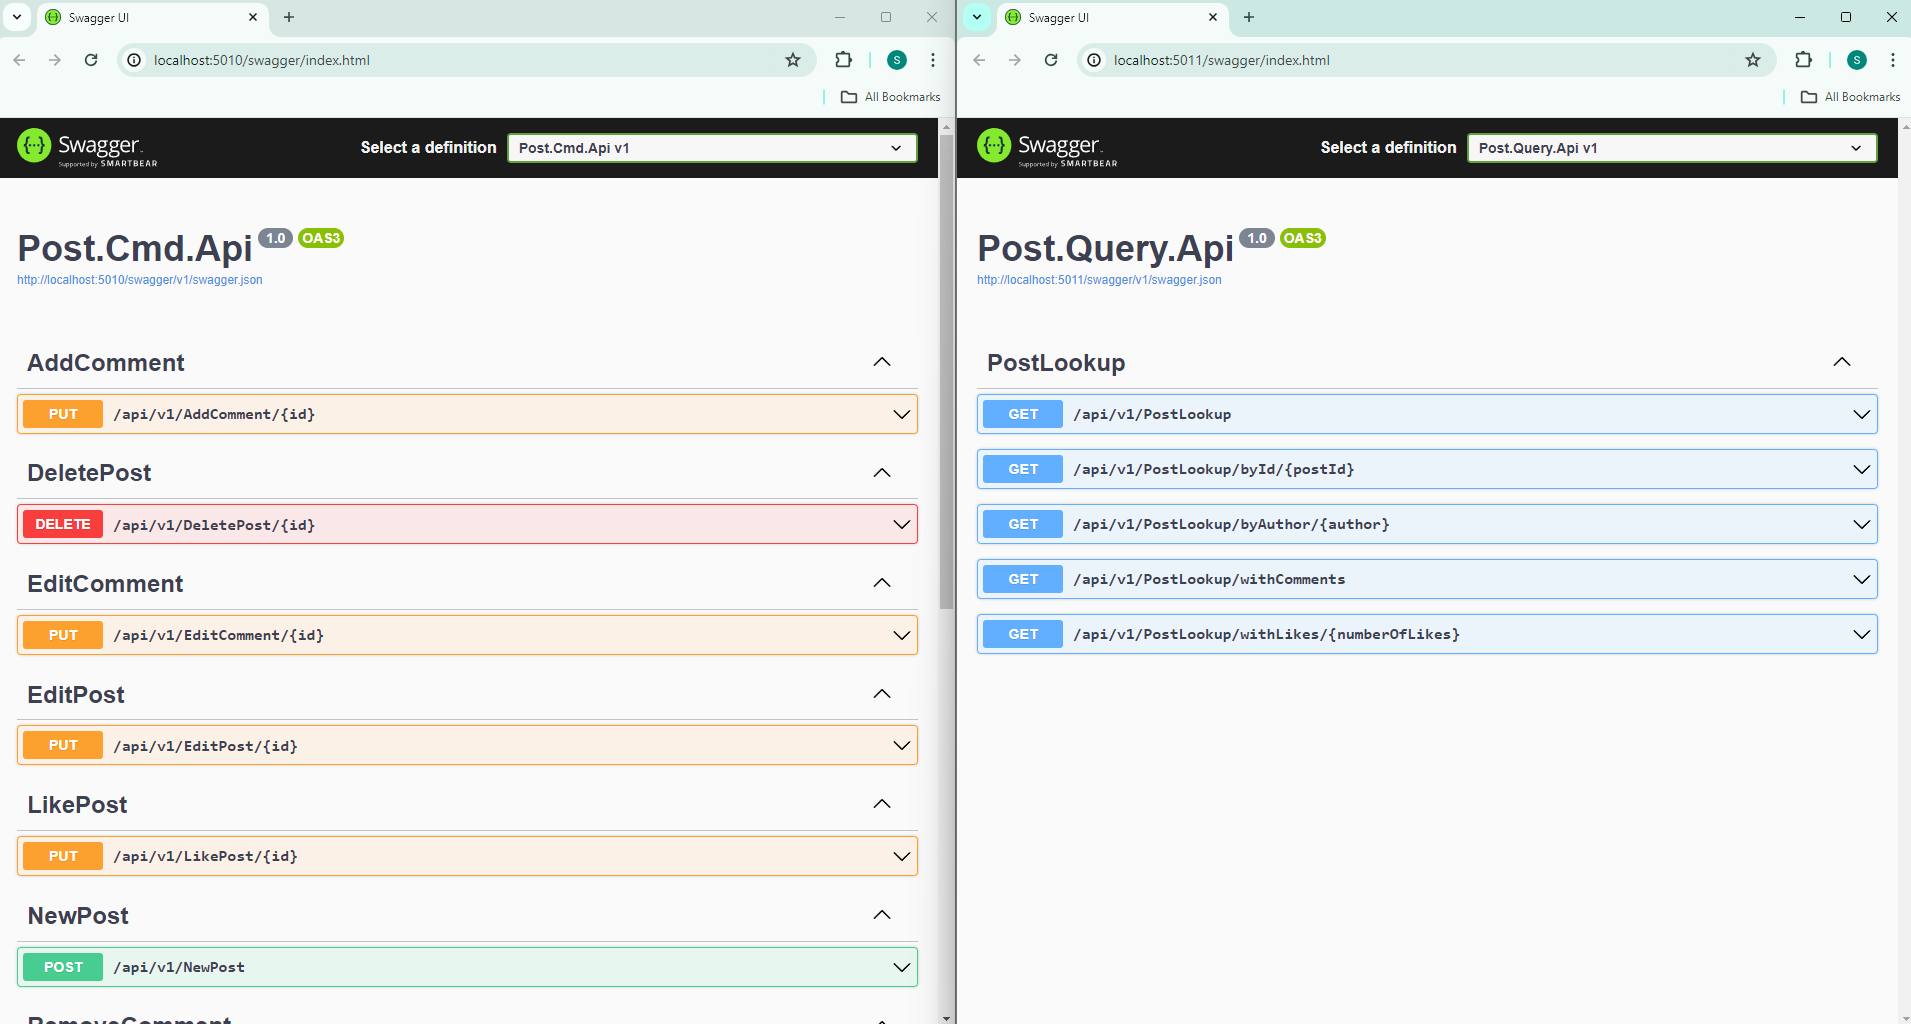
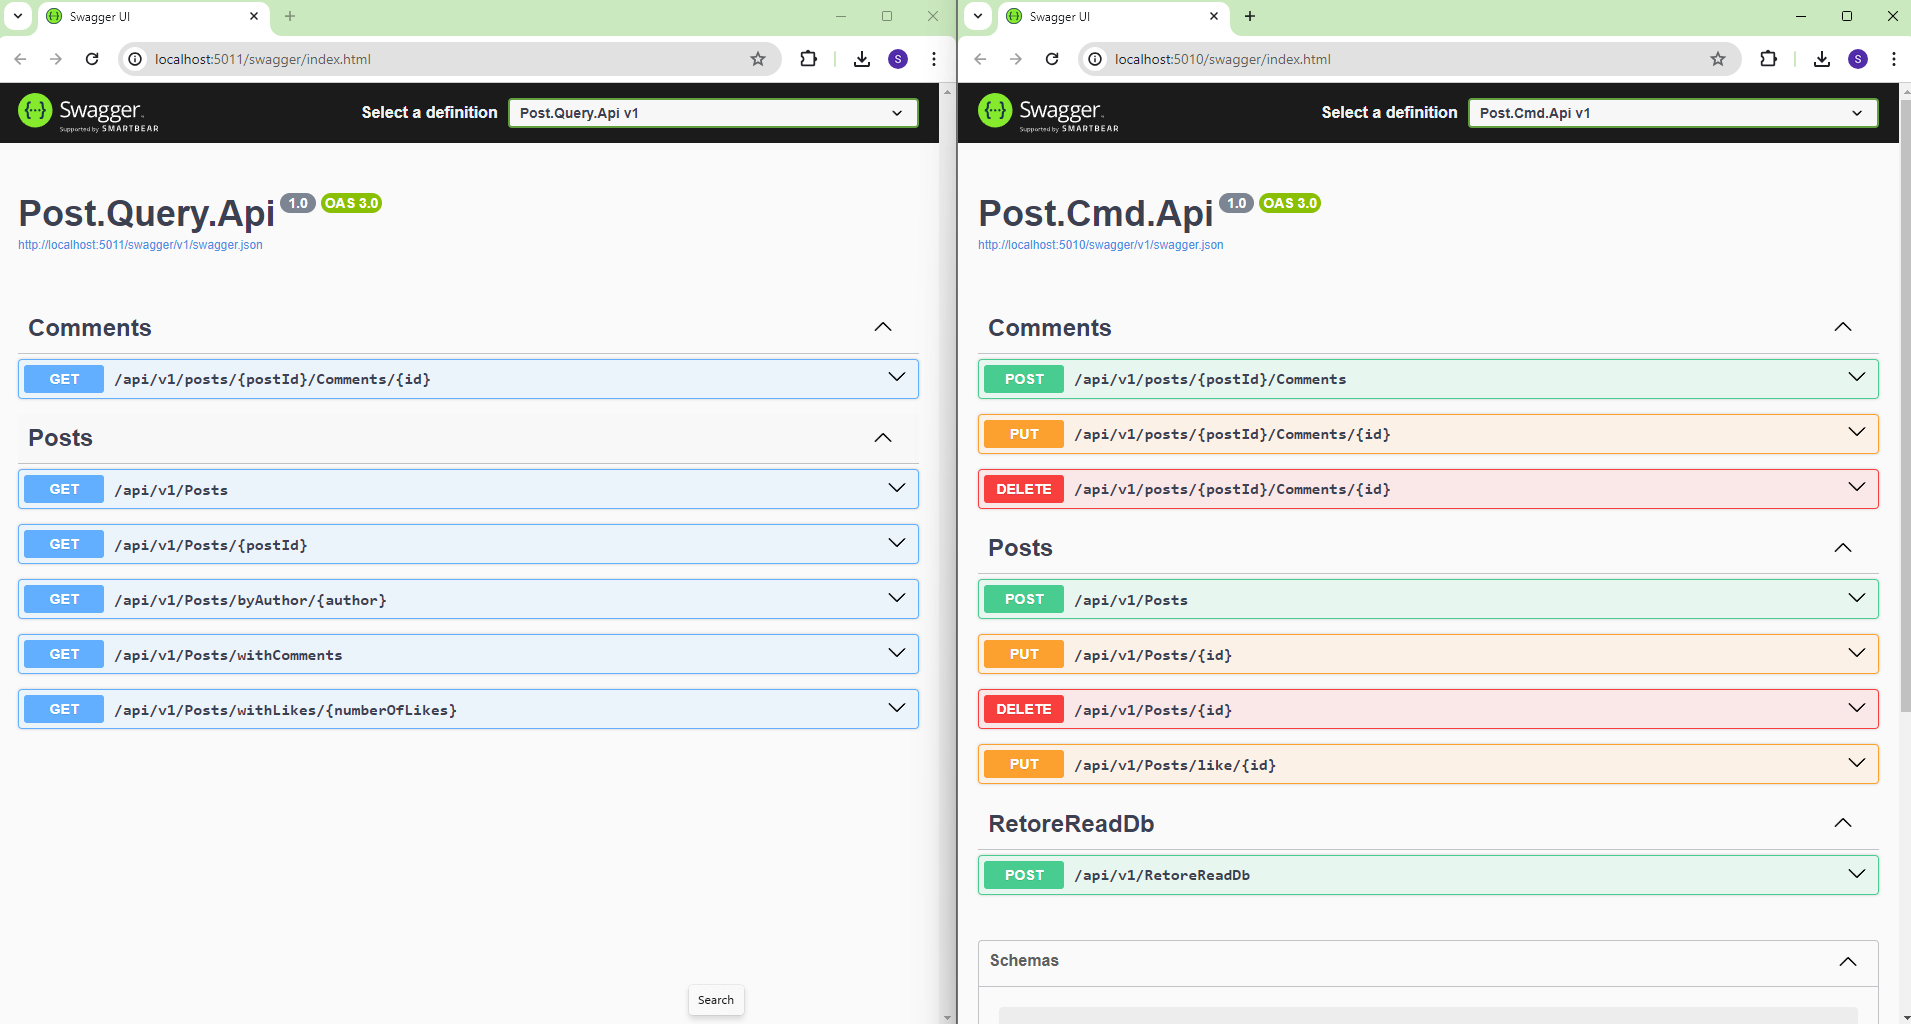
Made changed in API specs. (#3)
* Added query dispatcher for comments. Added better logic for adding a comment.

* Made a lot of good changes in the API. to make it work fine.

* Updated the swagger image and postman collection as per changed specs int he APIs

Changed region(s): [[0.0, 0.0, 1.0, 0.875], [0.0, 0.7812, 0.1544, 0.9688], [0.5249, 0.9062, 0.5557, 0.9688]]

diff --git a/src/Post.Query/Post.Query.Api/Extensions/ServiceExtensions.cs b/src/Post.Query/Post.Query.Api/Extensions/ServiceExtensions.cs
@@ -33,15 +33,19 @@ namespace Post.Query.Api.Extensions
             {
                 var queryHandler = scope.ServiceProvider.GetRequiredService<IQueryHandler>();
 
-                var dispatcher = new QueryDispatcher();
+                var postQueryDispatcher = new PostQueryDispatcher();
+                var commentQueryDispatcher = new CommentQueryDispatcher();
 
-                dispatcher.RegisterHandler<FindAllPostQuery>(queryHandler.HandleAsync);
-                dispatcher.RegisterHandler<FindPostByIdQuery>(queryHandler.HandleAsync);
-                dispatcher.RegisterHandler<FindPostsByAuthorQuery>(queryHandler.HandleAsync);
-                dispatcher.RegisterHandler<FindPostsWithCommentsQuery>(queryHandler.HandleAsync);
-                dispatcher.RegisterHandler<FindPostsWithLikesQuery>(queryHandler.HandleAsync);
+                postQueryDispatcher.RegisterHandler<FindAllPostQuery>(queryHandler.HandleAsync);
+                postQueryDispatcher.RegisterHandler<FindPostByIdQuery>(queryHandler.HandleAsync);
+                postQueryDispatcher.RegisterHandler<FindPostsByAuthorQuery>(queryHandler.HandleAsync);
+                postQueryDispatcher.RegisterHandler<FindPostsWithCommentsQuery>(queryHandler.HandleAsync);
+                postQueryDispatcher.RegisterHandler<FindPostsWithLikesQuery>(queryHandler.HandleAsync);
 
-                services.AddSingleton<IQueryDispatcher<PostEntity>>(_ => dispatcher);
+                services.AddSingleton<IQueryDispatcher<PostEntity>>(_ => postQueryDispatcher);
+
+                commentQueryDispatcher.RegisterHandler<FindCommentByIdQuery>(queryHandler.HandleAsync);
+                services.AddSingleton<IQueryDispatcher<CommentEntity>>(_ => commentQueryDispatcher);
             }
         }
     }

diff --git a/src/Post.Query/Post.Query.Api/Controllers/PostsController.cs b/src/Post.Query/Post.Query.Api/Controllers/PostsController.cs
@@ -1,4 +1,5 @@
-using CQRS.Core.Infrastructure;
+using AutoMapper;
+using CQRS.Core.Infrastructure;
 using Microsoft.AspNetCore.Mvc;
 using Post.Query.Api.DTOs;
 using Post.Query.Api.Queries;
@@ -8,20 +9,23 @@ namespace Post.Query.Api.Controllers
 {
     [ApiController]
     [Route("api/v1/[controller]")]
-    public class PostLookupController : ControllerBase
+    public class PostsController : ControllerBase
     {
         private readonly IQueryDispatcher<PostEntity> _queryDispatcher;
+        private readonly IMapper _mapper;
 
-        public PostLookupController(IQueryDispatcher<PostEntity> queryDispatcher)
+        public PostsController(IQueryDispatcher<PostEntity> queryDispatcher,IMapper mapper)
         {
             _queryDispatcher = queryDispatcher;
+            _mapper = mapper;
         }
 
         [HttpGet]
         public async Task<IActionResult> GetAllPostsAsync()
         {
             var posts = await _queryDispatcher.SendAsync(new FindAllPostQuery());
-            return NormalResponse(posts);
+            var postDtos = _mapper.Map<IEnumerable<PostDto>>(posts);
+            return Ok(postDtos);
         }
 
         [HttpGet("{postId:guid}")]
@@ -32,7 +36,7 @@ namespace Post.Query.Api.Controllers
             {
                 return NoContent();
             }
-            return Ok(posts.First());
+            return Ok(posts.FirstOrDefault());
         }
 
         [HttpGet("byAuthor/{author}")]

diff --git a/src/Post.Query/Post.Query.Api/Controllers/CommentsController.cs b/src/Post.Query/Post.Query.Api/Controllers/CommentsController.cs
@@ -1,0 +1,35 @@
+using AutoMapper;
+using CQRS.Core.Infrastructure;
+using Microsoft.AspNetCore.Mvc;
+using Post.Query.Api.DTOs;
+using Post.Query.Api.Queries;
+using Post.Query.Domain.Entities;
+
+namespace Post.Query.Api.Controllers
+{
+    [ApiController]
+    [Route("api/v1/posts/{postId}/[controller]")]
+    public class CommentsController : ControllerBase
+    {
+        private readonly IQueryDispatcher<CommentEntity> _queryDispatcher;
+        private readonly IMapper _mapper;
+
+        public CommentsController(IQueryDispatcher<CommentEntity> queryDispatcher, IMapper mapper)
+        {
+            _queryDispatcher = queryDispatcher;
+            _mapper = mapper;
+        }
+
+        [HttpGet("{id:guid}")]
+        public async Task<IActionResult> GetCommentByIdAsync(Guid postId, Guid id)
+        {
+            var comments = await _queryDispatcher.SendAsync(new FindCommentByIdQuery { PostId = postId, CommentId = id });
+            if (comments == null || !comments.Any())
+            {
+                return NoContent();
+            }
+            var commentDto=_mapper.Map<CommentDto>(comments.FirstOrDefault());
+            return Ok(commentDto);
+        }
+    }
+}

diff --git a/src/Post.Query/Post.Query.Infrastructure/Dispatchers/CommentQueryDispatcher.cs b/src/Post.Query/Post.Query.Infrastructure/Dispatchers/CommentQueryDispatcher.cs
@@ -1,0 +1,29 @@
+using CQRS.Core.Infrastructure;
+using CQRS.Core.Queries;
+using Post.Query.Domain.Entities;
+
+namespace Post.Query.Infrastructure.Dispatchers
+{
+    public class CommentQueryDispatcher : IQueryDispatcher<CommentEntity>
+    {
+        private readonly Dictionary<Type, Func<BaseQuery, Task<List<CommentEntity>>>> _handlers = new();
+
+        public void RegisterHandler<TQuery>(Func<TQuery, Task<List<CommentEntity>>> handler) where TQuery : BaseQuery
+        {
+            if (_handlers.ContainsKey(typeof(TQuery)))
+            {
+                throw new IndexOutOfRangeException("Can't register the same query handler twice.");
+            }
+            _handlers.Add(typeof(TQuery), x => handler((TQuery)x));
+        }
+
+        public async Task<List<CommentEntity>> SendAsync(BaseQuery query)
+        {
+            if (_handlers.TryGetValue(query.GetType(), out Func<BaseQuery, Task<List<CommentEntity>>> handler))
+            {
+                return await handler(query);
+            }
+            throw new ArgumentNullException(nameof(handler), "Query handler not registered.");
+        }
+    }
+}

diff --git a/src/Post.Cmd/Post.Cmd.Api/Controllers/PostsController.cs b/src/Post.Cmd/Post.Cmd.Api/Controllers/PostsController.cs
@@ -3,7 +3,6 @@ using CQRS.Core.Infrastructure;
 using Microsoft.AspNetCore.Mvc;
 using Post.Cmd.Api.Commands;
 using Post.Cmd.Api.DTOs.Request;
-using Post.Cmd.Api.DTOs.Response;
 
 namespace Post.Cmd.Api.Controllers
 {
@@ -32,7 +31,7 @@ namespace Post.Cmd.Api.Controllers
             var command = _mapper.Map<NewPostCommand>(newPostDto);
             command.Id = id;
             await _commandDispatcher.SendAsync(command);
-            return StatusCode(StatusCodes.Status201Created, new NewPostResponseDto { Id = id, Message = "New post creation completed successfully." });
+            return StatusCode(StatusCodes.Status201Created, new { Id = id, Message = "New post creation completed successfully." });
         }
 
         /// <summary>

diff --git a/src/Post.Cmd/Post.Cmd.Api/Controllers/CommentsController.cs b/src/Post.Cmd/Post.Cmd.Api/Controllers/CommentsController.cs
@@ -30,10 +30,11 @@ namespace Post.Cmd.Api.Controllers
         public async Task<IActionResult> AddCommentAsync(Guid postId, [FromBody] AddCommentDto addCommentDto)
         {
             var command = _mapper.Map<AddCommentCommand>(addCommentDto);
+            var commentId = Guid.NewGuid();
             command.Id = postId;
+            command.CommentId = commentId;
             await _commandDispatcher.SendAsync(command);
-
-            return Ok("Add comment request completed successfully.");
+            return StatusCode(StatusCodes.Status201Created, new { postId, id = commentId, message = "Add comment request completed successfully." });
         }
 
         /// <summary>

diff --git a/src/Post.Cmd/Post.Cmd.Domain/Aggregates/PostAggregate.cs b/src/Post.Cmd/Post.Cmd.Domain/Aggregates/PostAggregate.cs
@@ -80,7 +80,7 @@ namespace Post.Cmd.Domain
         }
 
 
-        public void AddComment(string comment, string username)
+        public void AddComment(Guid commentId,string comment, string username)
         {
             if (!_active)
             {
@@ -93,7 +93,7 @@ namespace Post.Cmd.Domain
             RaiseEvent(new CommentAddedEvent
             {
                 Id = _id,
-                CommentId = Guid.NewGuid(),
+                CommentId = commentId,
                 Comment = comment,
                 Username = username,
                 CommentDate = DateTime.Now

diff --git a/src/Post.Cmd/Post.Cmd.Api/Commands/CommandHandler.cs b/src/Post.Cmd/Post.Cmd.Api/Commands/CommandHandler.cs
@@ -35,7 +35,7 @@ namespace Post.Cmd.Api.Commands
         public async Task HandleAsync(AddCommentCommand command)
         {
             var aggregate = await _eventSourcingHandler.GetByIdAsync(command.Id);
-            aggregate.AddComment(command.Comment, command.Username);
+            aggregate.AddComment(command.CommentId, command.Comment, command.Username);
             await _eventSourcingHandler.SaveAsync(aggregate);
         }
 

diff --git a/src/Post.Query/Post.Query.Api/Queries/QueryHandler.cs b/src/Post.Query/Post.Query.Api/Queries/QueryHandler.cs
@@ -37,5 +37,11 @@ namespace Post.Query.Api.Queries
         {
             return await _postRepository.ListWithLikesAsync(query.NumberOfLikes);
         }
+
+        public async Task<List<CommentEntity>> HandleAsync(FindCommentByIdQuery query)
+        {
+            var post = await _postRepository.GetByIdAsync(query.PostId);
+            return post.Comments?.Where(c=>c.CommentId == query.CommentId).ToList();
+        }
     }
 }

diff --git a/src/Post.Query/Post.Query.Api/MappingProfile.cs b/src/Post.Query/Post.Query.Api/MappingProfile.cs
@@ -1,0 +1,17 @@
+using AutoMapper;
+using Post.Query.Api.DTOs;
+using Post.Query.Domain.Entities;
+namespace Post.Query.Api
+{
+    /// <summary>
+    /// Contains mappings of DTOs to commands
+    /// </summary>
+    public class MappingProfile : Profile
+    {
+        public MappingProfile()
+        {
+            CreateMap<CommentEntity, CommentDto>();
+            CreateMap<PostEntity, PostDto>();
+        }
+    }
+}

diff --git a/src/Post.Query/Post.Query.Api/DTOs/PostDto.cs b/src/Post.Query/Post.Query.Api/DTOs/PostDto.cs
@@ -1,0 +1,19 @@
+using Post.Query.Domain.Entities;
+
+namespace Post.Query.Api.DTOs
+{
+    public class PostDto
+    {
+        public Guid PostId { get; set; }
+
+        public string Author { get; set; }
+
+        public DateTime DatePosted { get; set; }
+
+        public string Message { get; set; }
+
+        public int Likes { get; set; }
+
+        public IList<CommentEntity> Comments { get; set; }
+    }
+}

diff --git a/src/Post.Query/Post.Query.Api/DTOs/CommentDto.cs b/src/Post.Query/Post.Query.Api/DTOs/CommentDto.cs
@@ -1,0 +1,17 @@
+namespace Post.Query.Api.DTOs
+{
+    public class CommentDto
+    {
+        public Guid CommentId { get; set; }
+
+        public string Username { get; set; }
+
+        public DateTime CommentDate { get; set; }
+
+        public string Comment { get; set; }
+
+        public bool Edited { get; set; }
+
+        public Guid PostId { get; set; }
+    }
+}
